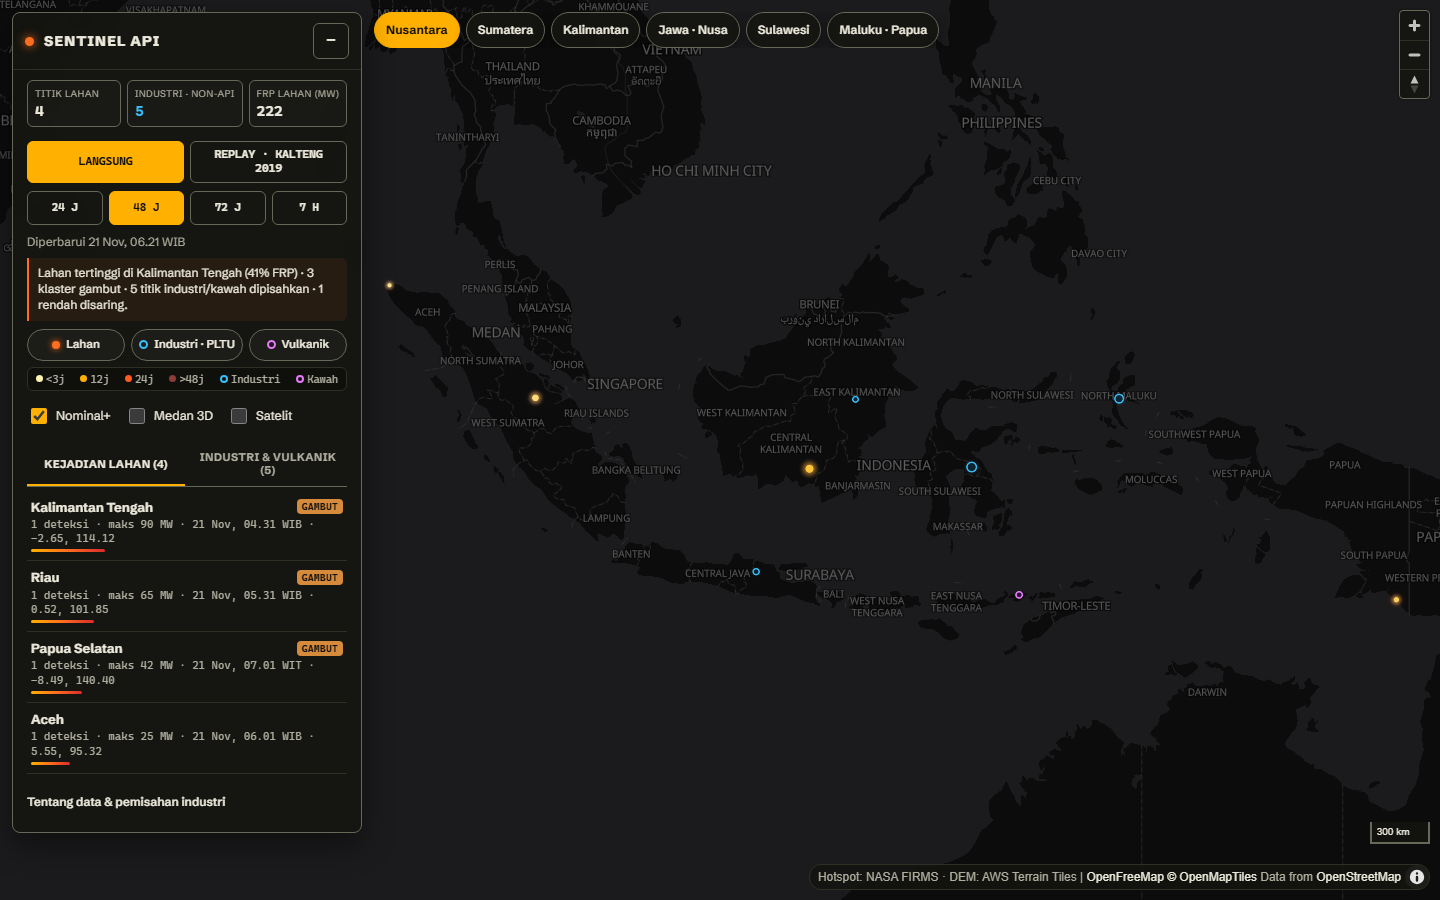
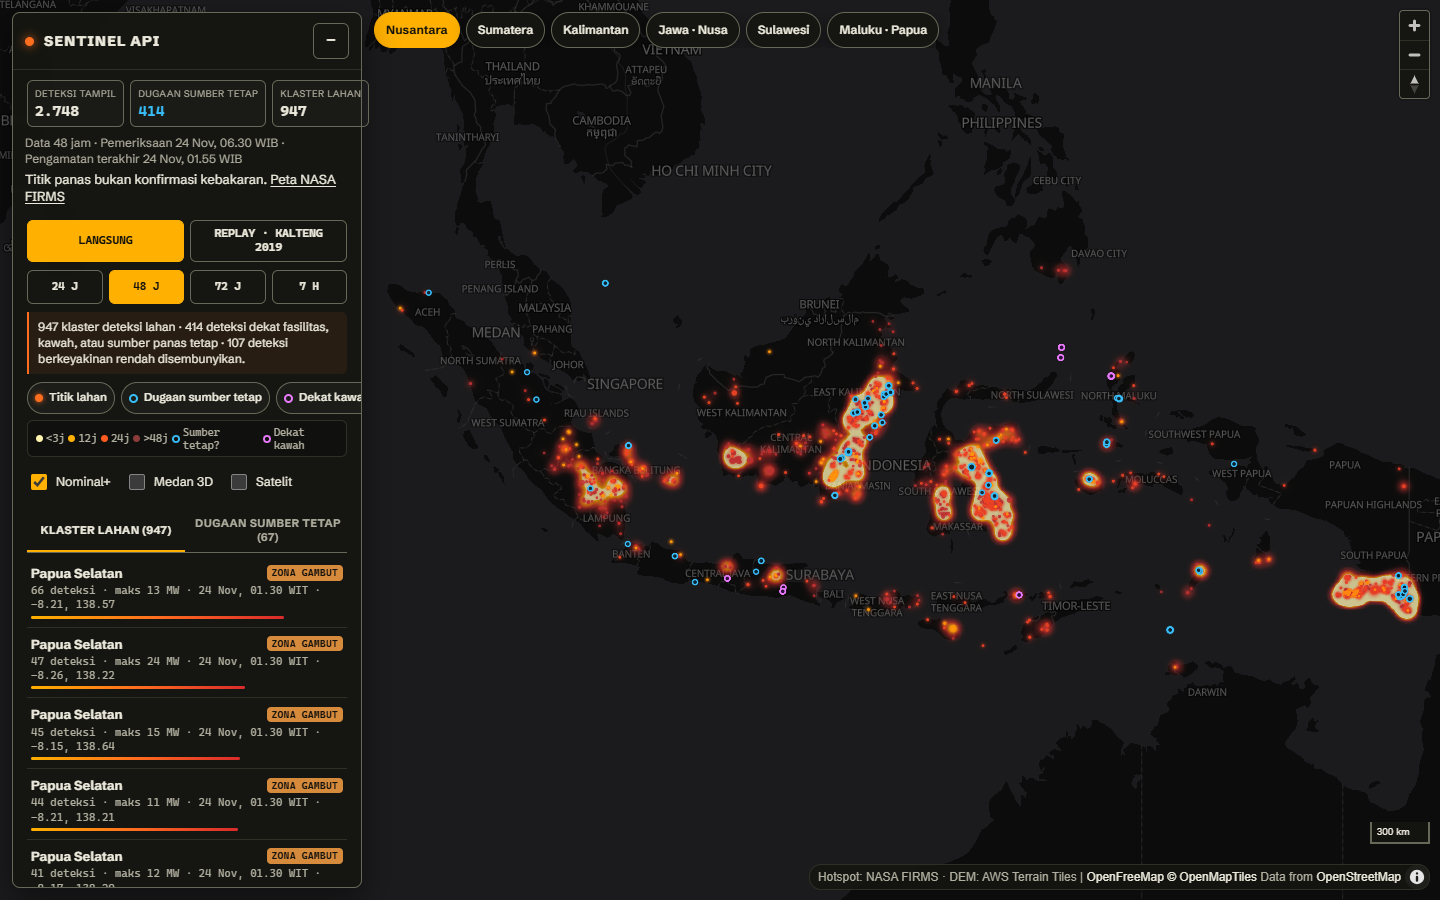
docs: refresh previews and descriptions for P0
- Replace pre-P0 README screenshots (old "FRP Lahan (MW)" card) with production captures showing data status and the new cards.
- Describe source categories as suspected stationary sources instead of a separation, in package.json, CITATION title and image alt text.

diff --git a/README.md b/README.md
@@ -8,7 +8,7 @@
 [![Edge](https://img.shields.io/badge/Edge-Cloudflare_Workers_+_D1-f38020?style=flat-square&logo=cloudflareworkers&logoColor=white)](https://workers.cloudflare.com/)
 [![License: MIT](https://img.shields.io/badge/License-MIT-22c55e?style=flat-square)](LICENSE)
 
-![Sentinel Api desktop view focused across the Indonesian archipelago with panel-aware framing and live thermal source separation](docs/preview-desktop.png)
+![Sentinel Api desktop view across the Indonesian archipelago with data status, land clusters and suspected stationary source flags](docs/preview-desktop.png)
 
 ---
 
